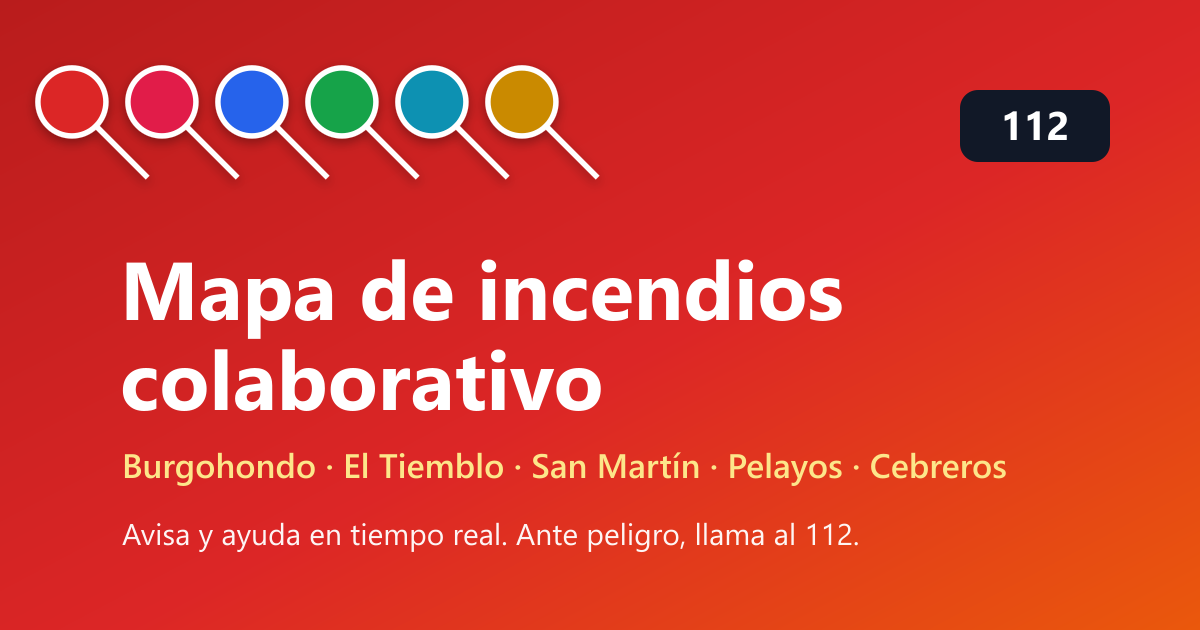
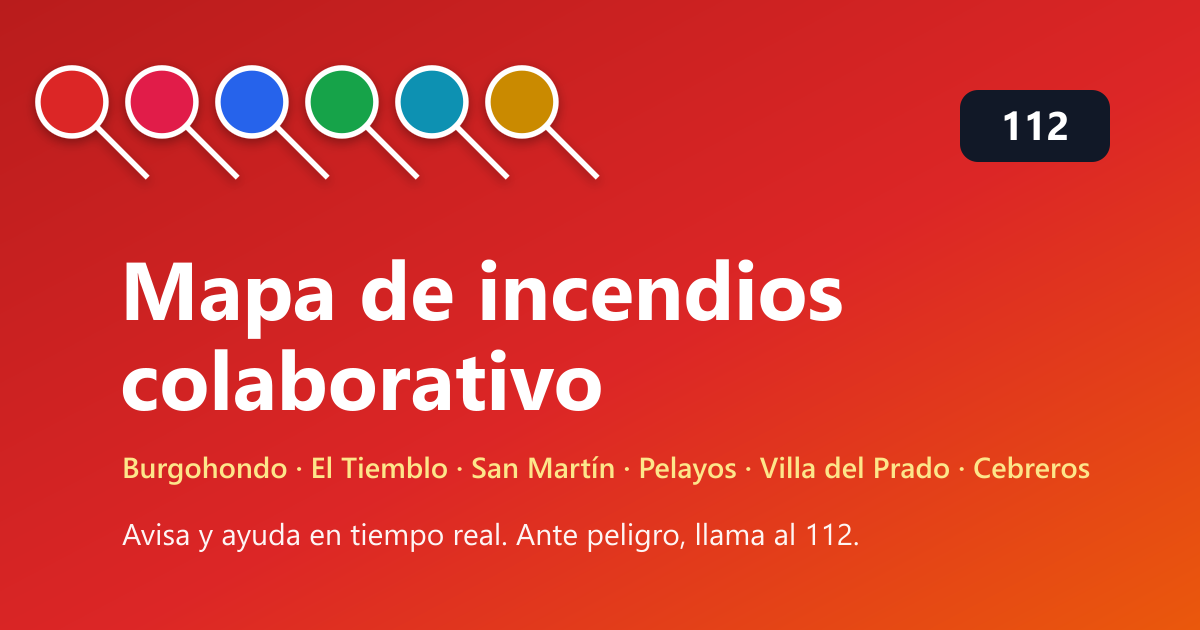
Añade Villa del Prado al aviso a vecinos y a la portada (OG)
Claude-Session: https://claude.ai/code/session_018yd5G6RLhB1P2ZgPbhwqoh

Changed region(s): [[0.0925, 0.7238, 0.925, 0.7841]]

diff --git a/index.html b/index.html
@@ -3,13 +3,13 @@
 <head>
 <meta charset="utf-8" />
 <meta name="viewport" content="width=device-width, initial-scale=1, maximum-scale=1" />
-<title>🔥 Mapa colaborativo de incendios — Burgohondo, El Tiemblo, San Martín, Pelayos</title>
+<title>🔥 Mapa colaborativo de incendios — Burgohondo, El Tiemblo, San Martín, Pelayos, Villa del Prado</title>
 <meta name="description" content="Avisa y consulta en tiempo real: focos, cortes de carretera, evacuación, refugios, agua y ayuda entre vecinos. Ante peligro, llama al 112." />
 
 <!-- Vista previa al compartir (WhatsApp, redes) -->
 <meta property="og:type" content="website" />
 <meta property="og:site_name" content="Mapa colaborativo de incendios" />
-<meta property="og:title" content="🔥 Mapa colaborativo de incendios — Burgohondo, El Tiemblo, San Martín, Pelayos" />
+<meta property="og:title" content="🔥 Mapa colaborativo de incendios — Burgohondo, El Tiemblo, San Martín, Pelayos, Villa del Prado" />
 <meta property="og:description" content="Avisa y ayuda en tiempo real: focos, cortes, evacuación, refugios, agua y ayuda entre vecinos. Ante peligro, llama al 112." />
 <meta property="og:url" content="https://incendioeltiemblo.vercel.app/" />
 <meta property="og:image" content="https://incendioeltiemblo.vercel.app/og.png" />
@@ -19,7 +19,7 @@
 <meta property="og:locale" content="es_ES" />
 <meta name="twitter:card" content="summary_large_image" />
 <meta name="twitter:title" content="🔥 Mapa colaborativo de incendios" />
-<meta name="twitter:description" content="Avisa y ayuda en tiempo real. Zona de Burgohondo, El Tiemblo, San Martín, Pelayos." />
+<meta name="twitter:description" content="Avisa y ayuda en tiempo real. Zona de Burgohondo, El Tiemblo, San Martín, Pelayos, Villa del Prado." />
 <meta name="twitter:image" content="https://incendioeltiemblo.vercel.app/og.png" />
 
 <!-- Leaflet (mapa gratis, sin API key) -->
@@ -92,7 +92,7 @@
     <p>Avisa y consulta en tiempo real: focos de fuego, zonas seguras, refugios y ayuda.</p>
     <div class="warn">⚠ Ante peligro llama al <b>112</b>. Esta web NO sustituye a los servicios de emergencia.</div>
     <div class="warn" style="background:rgba(255,255,255,.16)">
-      📣 Para los vecinos de <b>Burgohondo</b>, <b>El Tiemblo</b>, <b>San Martín de Valdeiglesias</b> y <b>Pelayos de la Presa</b>:
+      📣 Para los vecinos de <b>Burgohondo</b>, <b>El Tiemblo</b>, <b>San Martín de Valdeiglesias</b>, <b>Pelayos de la Presa</b> y <b>Villa del Prado</b>:
       avisad y colaboremos con cabeza para ayudarnos unos a otros. He hecho lo que he podido. Gracias 💪
     </div>
   </header>
